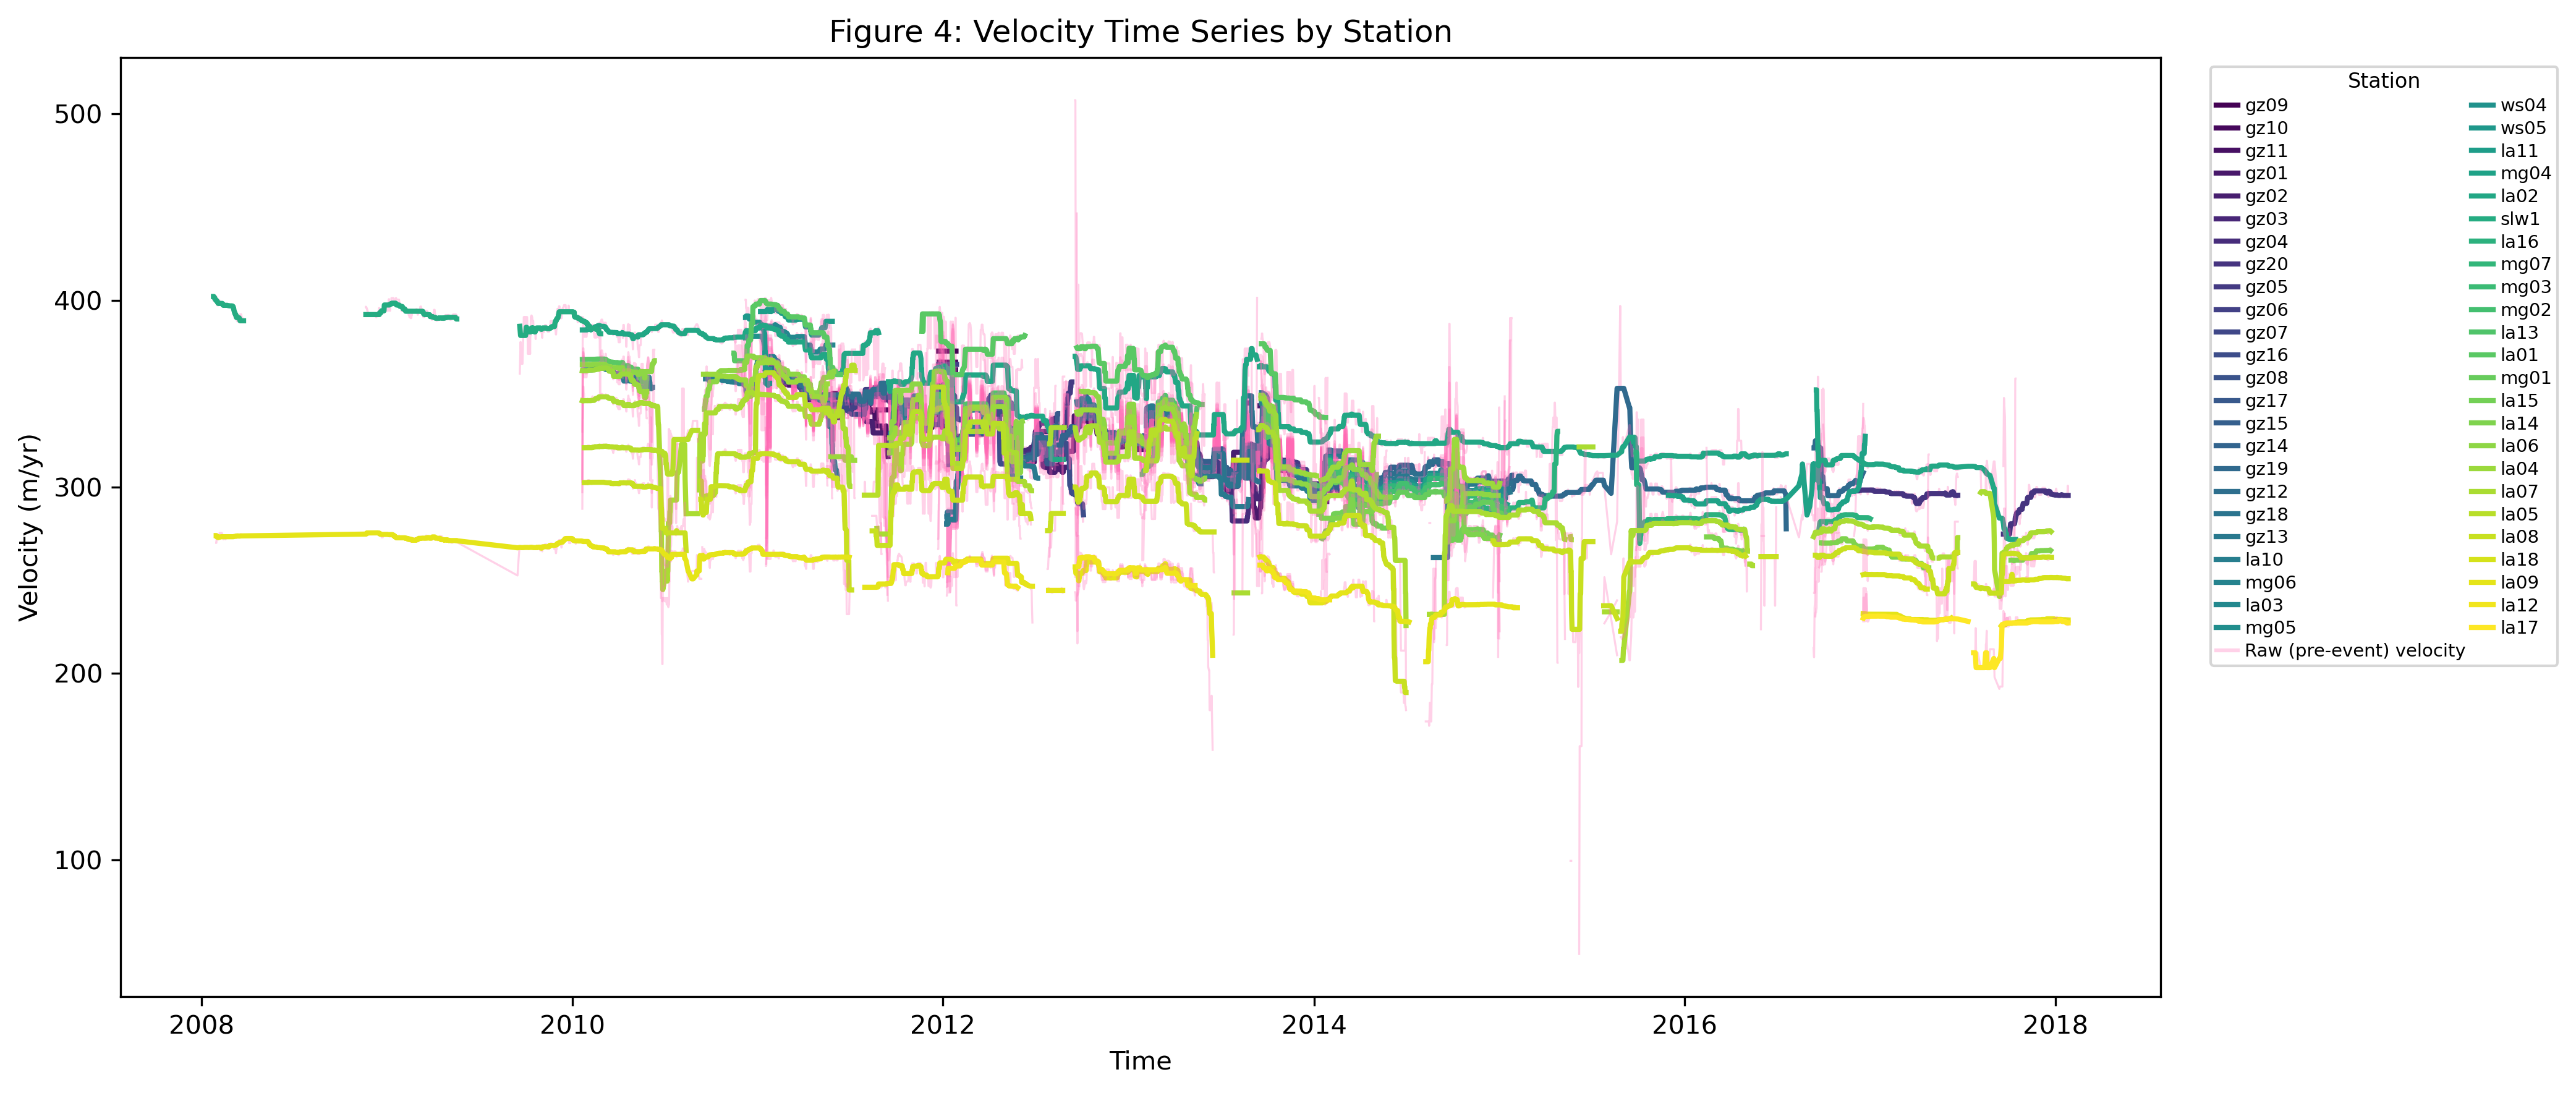
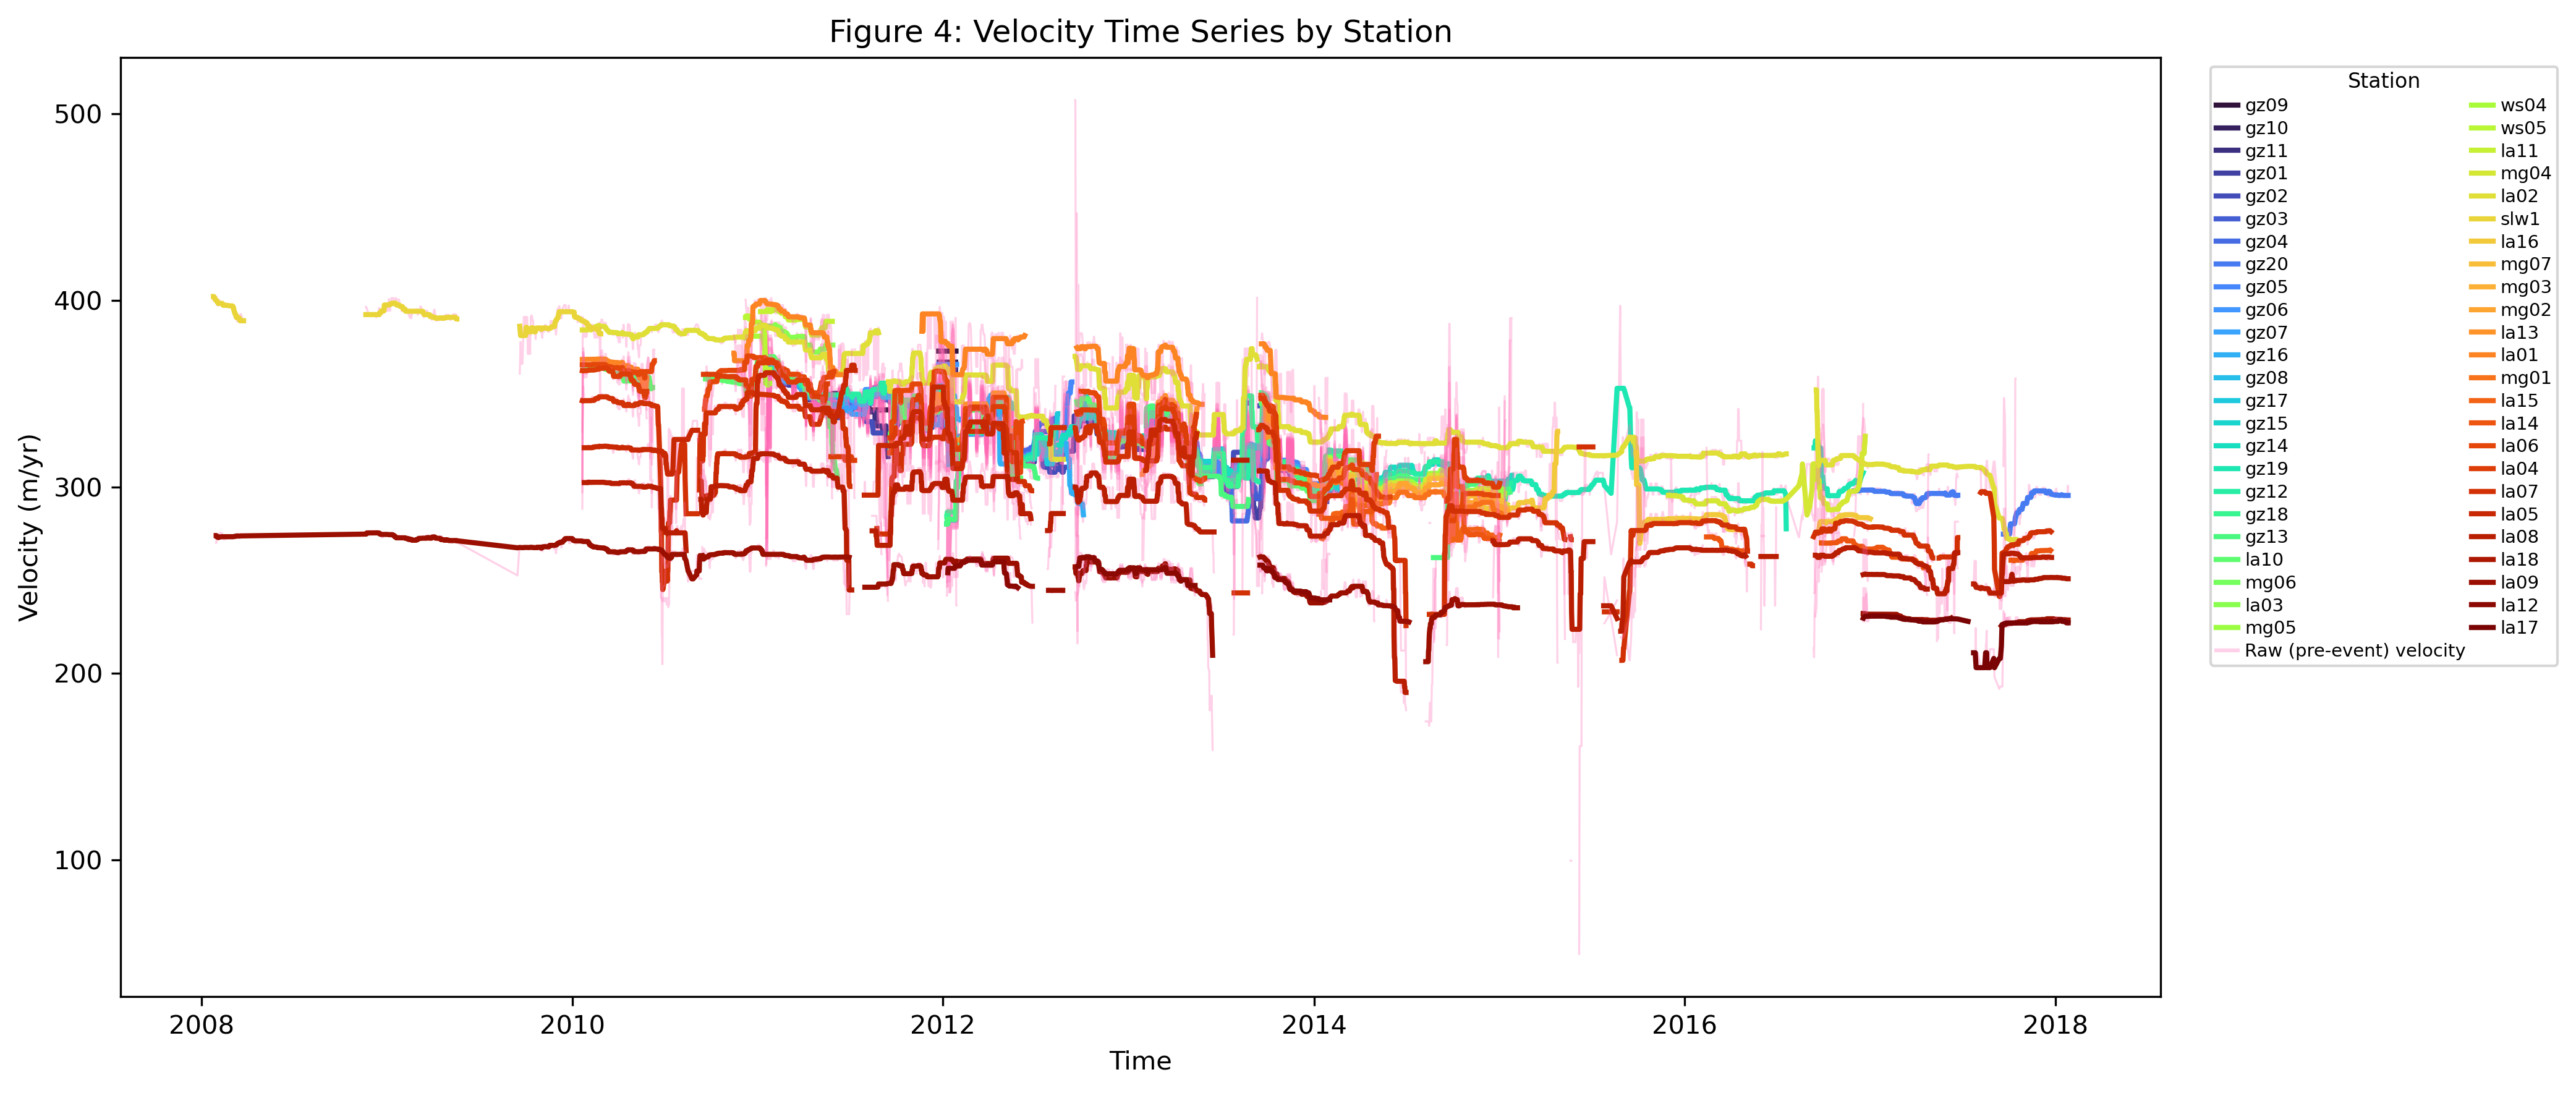
Update Figures 2 and 4 color coding and README documentation to include station information file

diff --git a/README.md b/README.md
@@ -11,7 +11,7 @@ Exploring the temporal and spatial variability in  ice sheet velocity change of 
 - This project will explore how the velocity of the Whillans Ice Plain in West Antarctica changed between 2008 and 2019, as well as how it changed spatially using GPS and GNSS data. The primary output is figures that show preprocessing changes, the spatial and temporal patterns of velocity, and correlations between velocity change stick-slip events.
 
 ## How to Use Repository: 
- &nbsp; The main code for this workflow can be found in the Notebooks folder in the extract_and_preproc notebook. In order to run it, the PPP.zip file will need to be downloaded from the Katz et al., 2026 Zenodo. The file should then be extracted and placed in a Data folder in the SP2026-FP01-Ice-Sheet-Velocity directory. Adjust the directory such that the path configuration is accurate: PPP_dir = "../Data/PPP/PPP/". Additionally, in order to get the preprocessed stick-slip catalog, the Whillians-GPS-Data-and-Features.csv should be downloaded from the Mines Glaciology Github and put in the same file folder. The script in the extract notebook is fully contained. Once it runs, the figure notebooks can be run in any order. Each figure notebook takes inputs that are generated from the extraction notebook and outputs figures in the figure file. It is worth noting that the extraction notebook has a run time of about 3 hours, however, the cleaned and preprocessed data is save to a csv in the data directory so that any figure can be generated and edited without having to rerun that notebook more than once.   
+ &nbsp; The main code for this workflow can be found in the Notebooks folder in the extract_and_preproc notebook. In order to run it, the PPP.zip file will need to be downloaded from the Katz et al., 2026 Zenodo. The file should then be extracted and placed in a Data folder in the SP2026-FP01-Ice-Sheet-Velocity directory. Adjust the directory such that the path configuration is accurate: PPP_dir = "../Data/PPP/PPP/". Another required file is StationInformation.csv, which should also be downloaded from the same Zenodo repository and placed in the Data folder, as it contains the GNSS station coordinate metadata used for the station location maps and spatial station ordering in Figures 2 and 4. Additionally, in order to get the preprocessed stick-slip catalog, the Whillians-GPS-Data-and-Features.csv should be downloaded from the Mines Glaciology Github and put in the same file folder. The script in the extract notebook is fully contained. Once it runs, the figure notebooks can be run in any order. Each figure notebook takes inputs that are generated from the extraction notebook and outputs figures in the figure file. It is worth noting that the extraction notebook has a run time of about 3 hours, however, the cleaned and preprocessed data is save to a csv in the data directory so that any figure can be generated and edited without having to rerun that notebook more than once.   
 
 ## Introduction:
 ![Ice Study Location](images/IceStudyLocation.gif)
@@ -35,7 +35,7 @@ Figure demonstrating location of Whillans Ice Plain [1].
   - Identify correlations between velocity and stick-slip timings.
 
 ## Datasets:
-- Whillans Ice Plain GNSS RINEX, Kinematic Positions, and Stick-Slip Event Catalog [PPP Files from Zenodo](https://zenodo.org/records/17797751)
+- Whillans Ice Plain GNSS RINEX, Kinematic Positions, and Stick-Slip Event Catalog [PPP Files and Station Metadata from Zenodo](https://zenodo.org/records/17797751)
 - Whillans Ice Plain Stick Slip Events [Event catalog](https://github.com/MinesGlaciology/whillans-surf/blob/main/notebooks/data_preproc/09-18.csv)
 
 ## Tools/Packages: 